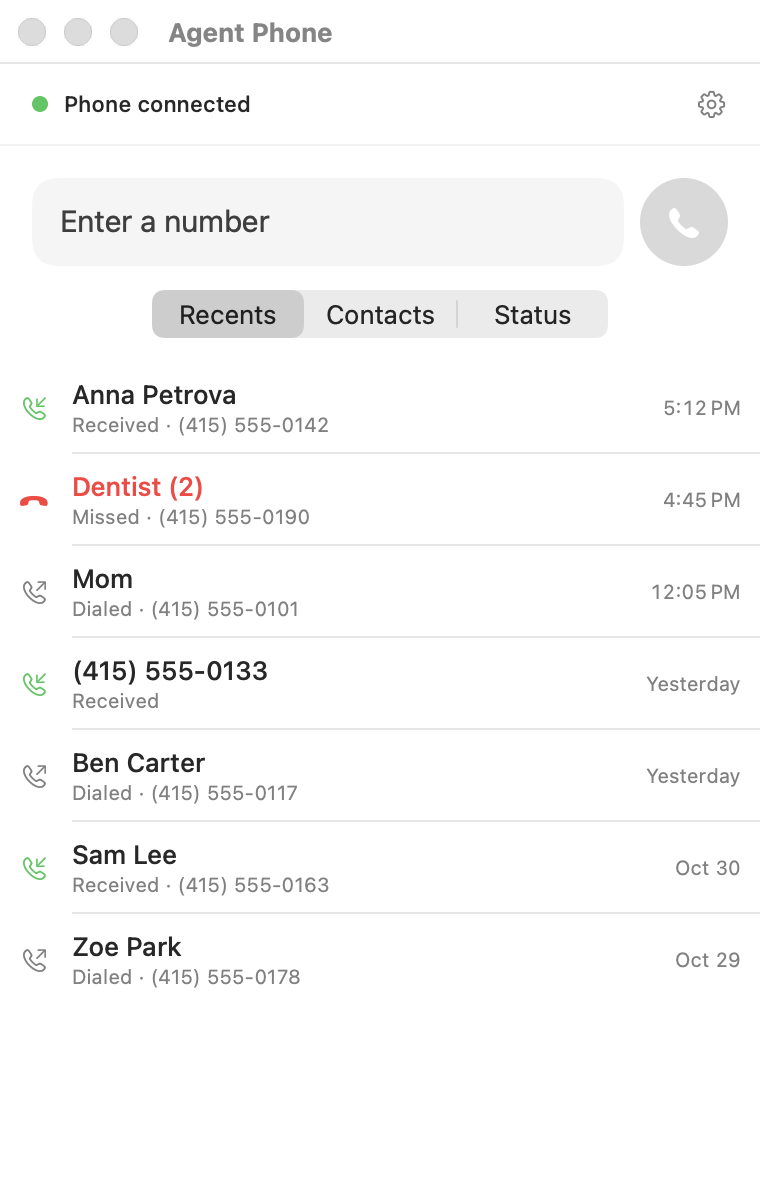
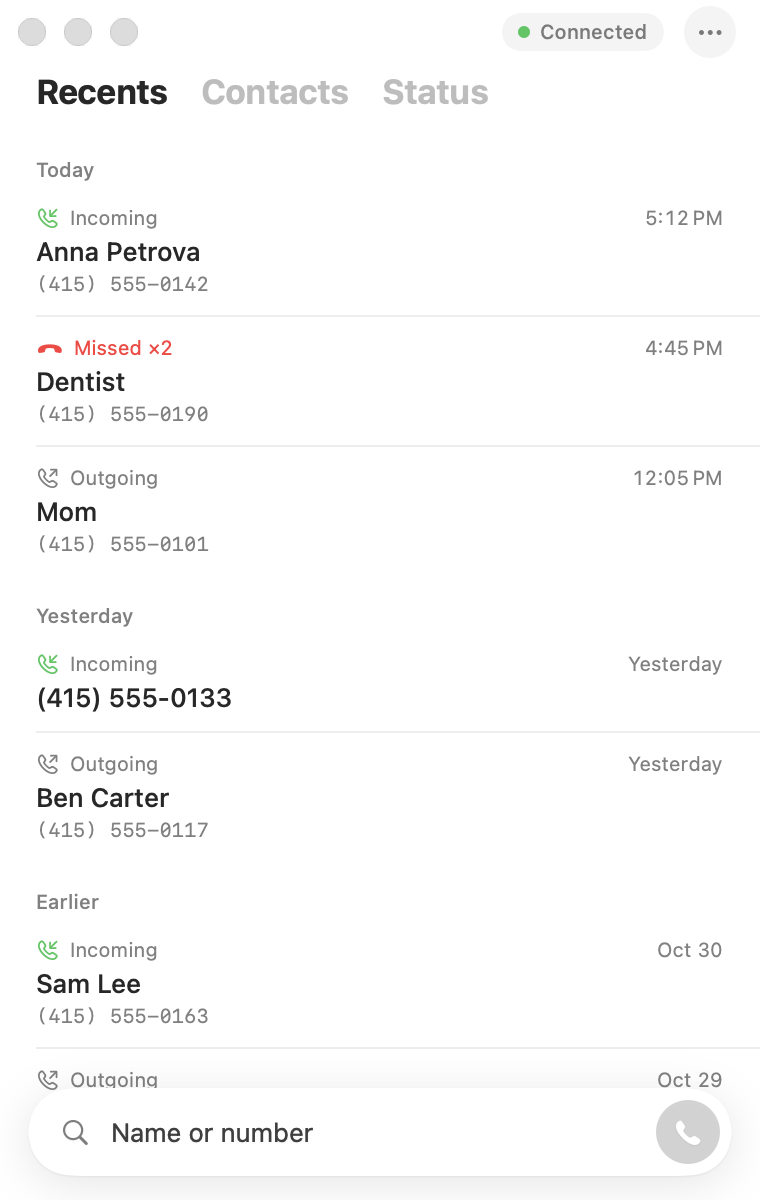
README: new app screenshots (recents, setup checklist, settings)

diff --git a/README.md b/README.md
@@ -68,6 +68,12 @@ How the phone appears in the room: [docs/LIVEKIT.md](docs/LIVEKIT.md).
 
 ## Mac app
 
+<p>
+  <img src="docs/assets/app.png" alt="Recents" width="32%">
+  <img src="docs/assets/app-setup.png" alt="Setup checklist" width="32%">
+  <img src="docs/assets/app-settings.png" alt="Call settings" width="32%">
+</p>
+
 ```bash
 apps/AgentPhone/install.sh       # builds it and installs "Agent Phone" into /Applications
 ```
